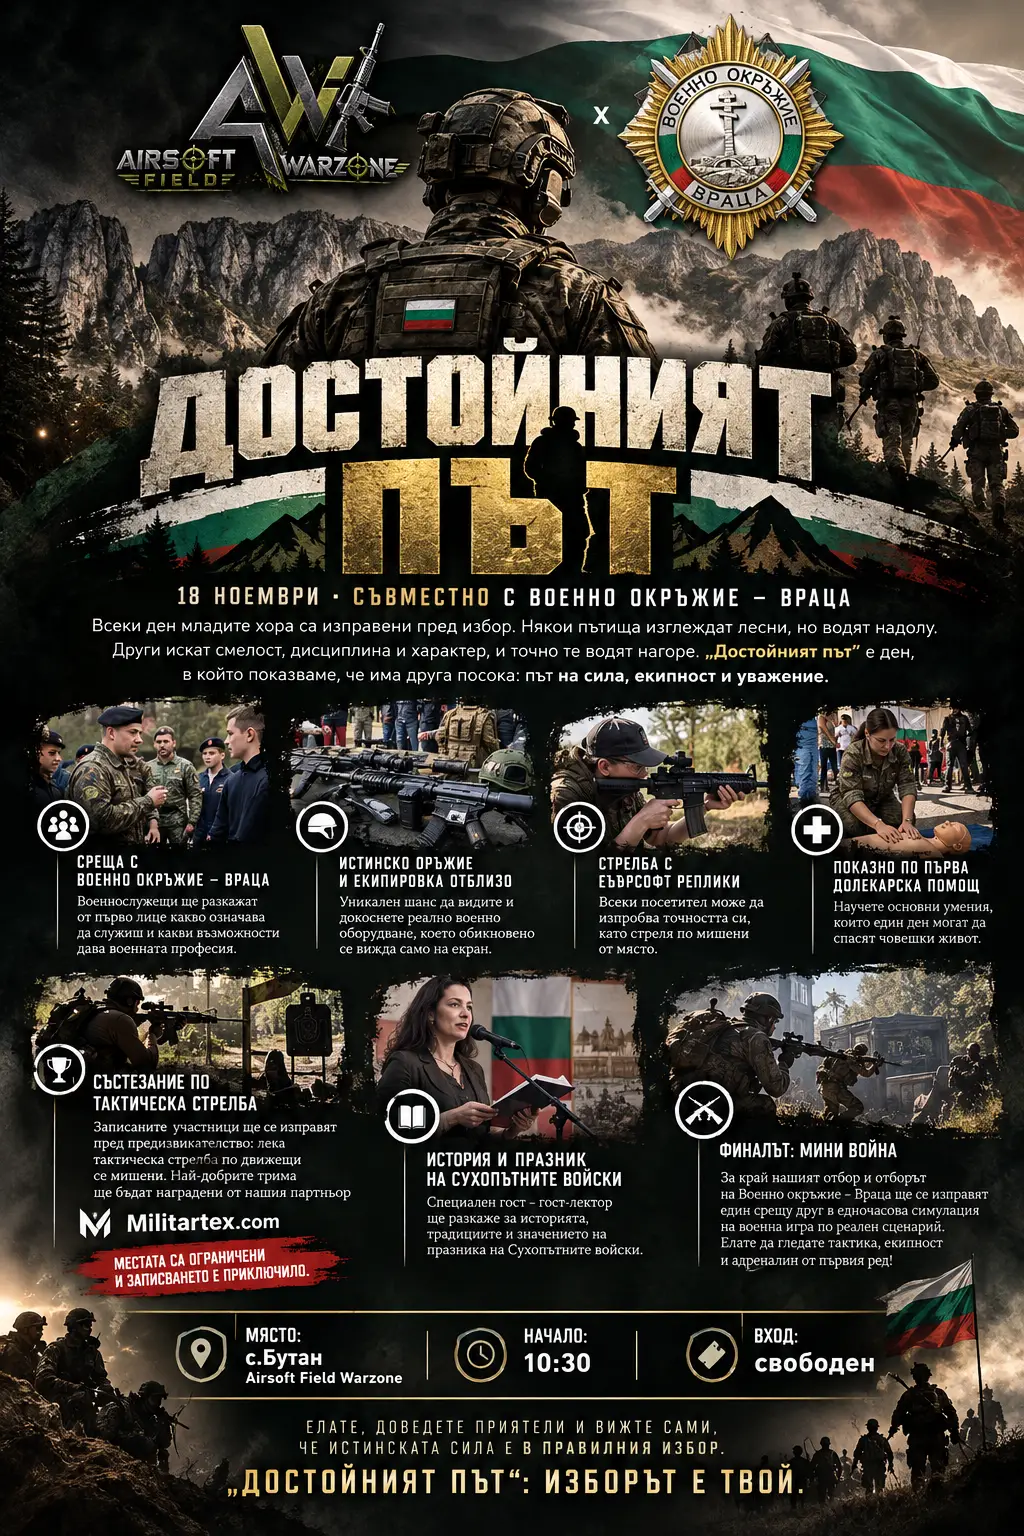
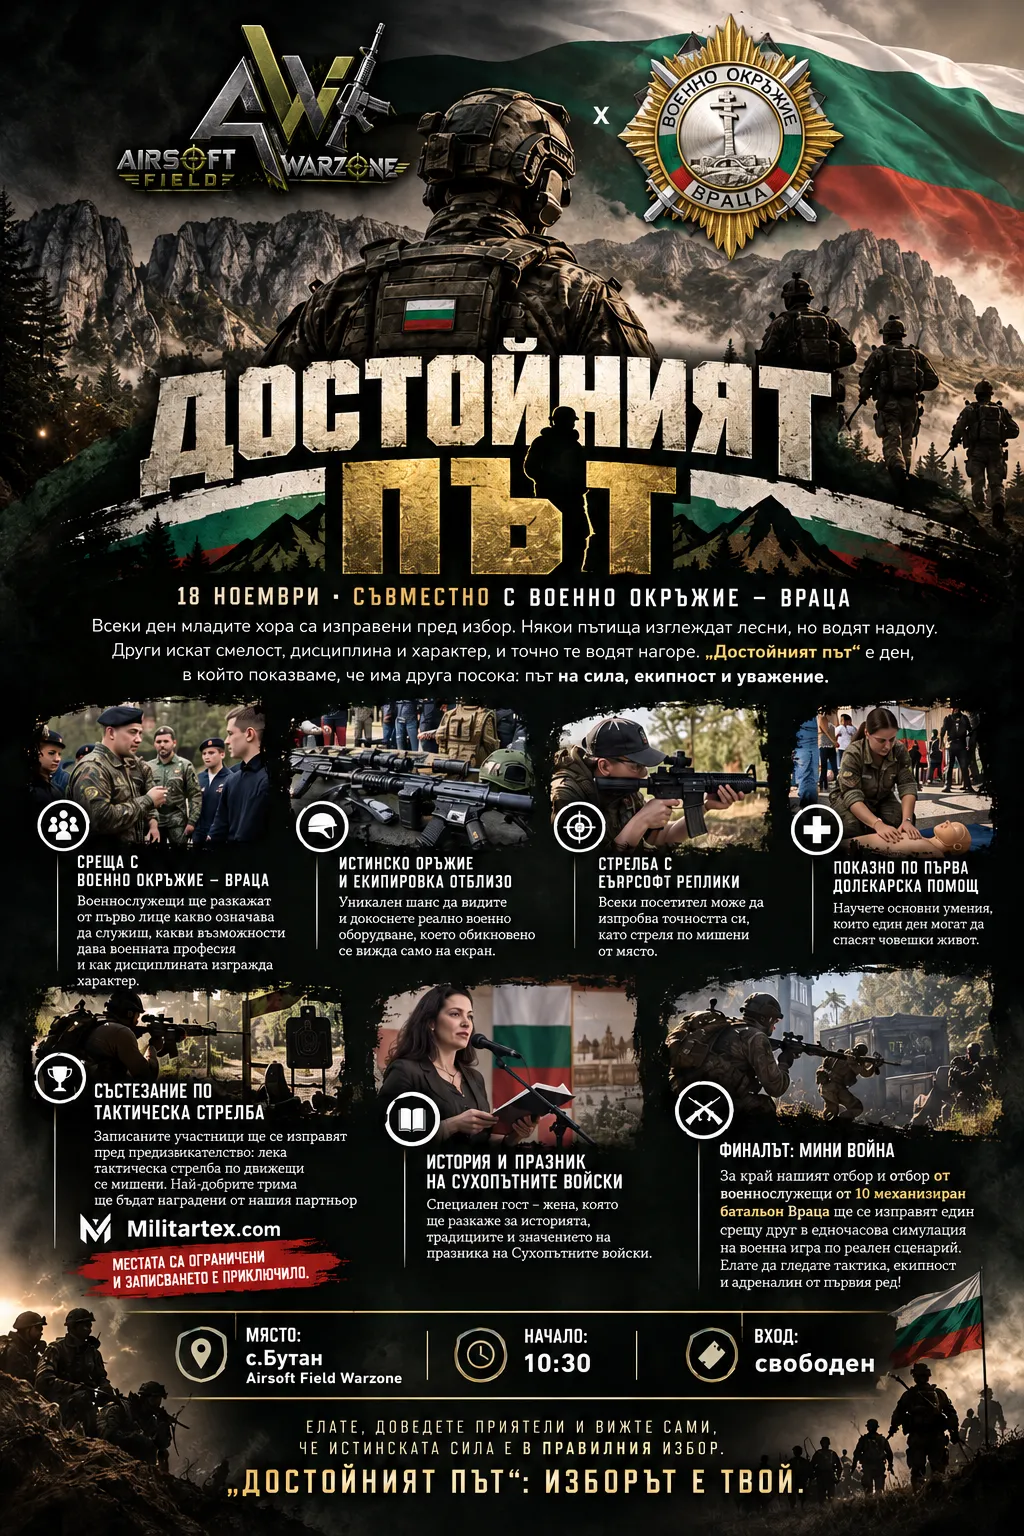
Нов плакат за „Достойният път“, актуален текст, премахната снимка без съгласие

diff --git a/index.html b/index.html
@@ -260,8 +260,8 @@
           <li><span class="mono">03</span><div><b>Стрелба с еърсофт реплики</b>Всеки посетител може да изпробва точността си, като стреля по мишени от място.</div></li>
           <li><span class="mono">04</span><div><b>Показно по първа долекарска помощ</b>Научете основни умения, които един ден могат да спасят човешки живот.</div></li>
           <li><span class="mono">05</span><div><b>Състезание по тактическа стрелба</b>Записаните участници ще се изправят пред предизвикателство: лека тактическа стрелба по движещи се мишени. Най-добрите трима ще бъдат наградени от нашия партньор Militartex.<em class="op-closed mono">● МЕСТАТА СА ОГРАНИЧЕНИ – ЗАПИСВАНЕТО Е ПРИКЛЮЧИЛО</em></div></li>
-          <li><span class="mono">06</span><div><b>История и празник на Сухопътните войски</b>Специален гост – гост-лектор ще разкаже за историята, традициите и значението на празника на Сухопътните войски.</div></li>
-          <li class="op-final"><span class="mono">07</span><div><b>Финалът: мини война</b>За край нашият отбор и отборът на Военно окръжие – Враца ще се изправят един срещу друг в едночасова симулация на военна игра по реален сценарий. Елате да гледате тактика, екипност и адреналин от първия ред!</div></li>
+          <li><span class="mono">06</span><div><b>История и празник на Сухопътните войски</b>Специална гостенка ще разкаже за историята, традициите и значението на празника на Сухопътните войски.</div></li>
+          <li class="op-final"><span class="mono">07</span><div><b>Финалът: мини война</b>За край нашият отбор и отбор от военнослужещи от 10-и механизиран батальон – Враца ще се изправят един срещу друг в едночасова симулация на военна игра по реален сценарий. Елате да гледате тактика, екипност и адреналин от първия ред!</div></li>
         </ol>
         <div class="op-btns">
           <button type="button" class="btn btn-primary" data-ics><svg><use href="#i-cal"/></svg> Добави в календара</button>
@@ -566,11 +566,10 @@
       <a class="g-item g-tall g-more reveal" href="assets/img/squad-talk-1920.webp" data-caption="Тактика преди щурма"><img src="assets/img/squad-talk-640.webp" alt="Трима играчи обсъждат тактиката" loading="lazy" decoding="async" width="640" height="853"><span class="mono">12</span></a>
       <a class="g-item g-feature g-more reveal" href="assets/img/ivy-1920.webp" data-caption="Засада в бръшляна"><img src="assets/img/ivy-1280.webp" alt="Оператор, скрит зад бръшлян" loading="lazy" decoding="async" width="1280" height="960"><span class="mono">13</span></a>
       <a class="g-item g-wide g-more reveal" href="assets/img/marshal-1920.webp" data-caption="Маршалът следи играта"><img src="assets/img/marshal-1280.webp" alt="Маршал и играч сред ограничителни ленти" loading="lazy" decoding="async" width="1280" height="960"><span class="mono">14</span></a>
-      <a class="g-item g-tall g-more reveal" href="assets/img/rookie-1920.webp" data-caption="Новобранецът и инструкторът"><img src="assets/img/rookie-640.webp" alt="Млад играч и инструктор зад гуми" loading="lazy" decoding="async" width="640" height="853"><span class="mono">15</span></a>
-      <a class="g-item g-wide g-more reveal" href="assets/img/briefing-wide-1280.webp" data-caption="Брифинг преди голямата игра"><img src="assets/img/briefing-wide-1280.webp" alt="Голяма група играчи на брифинг" loading="lazy" decoding="async" width="1280" height="960"><span class="mono">16</span></a>
+      <a class="g-item g-more reveal" href="assets/img/briefing-wide-1280.webp" data-caption="Брифинг преди голямата игра"><img src="assets/img/briefing-wide-1280.webp" alt="Голяма група играчи на брифинг" loading="lazy" decoding="async" width="1280" height="960"><span class="mono">15</span></a>
     </div>
 
-    <div class="g-more-wrap"><button type="button" class="btn btn-ghost" id="galleryMore">Покажи още снимки <span class="mono">(+7)</span></button></div>
+    <div class="g-more-wrap"><button type="button" class="btn btn-ghost" id="galleryMore">Покажи още снимки <span class="mono">(+6)</span></button></div>
 
     <header class="mission-head mission-head-sub">
       <p class="mission-meta mono"><span class="code">МИСИЯ 06-B</span><span>//</span><span>ВИДЕОНАБЛЮДЕНИЕ</span><span class="status"><i></i>LIVE</span></p>
